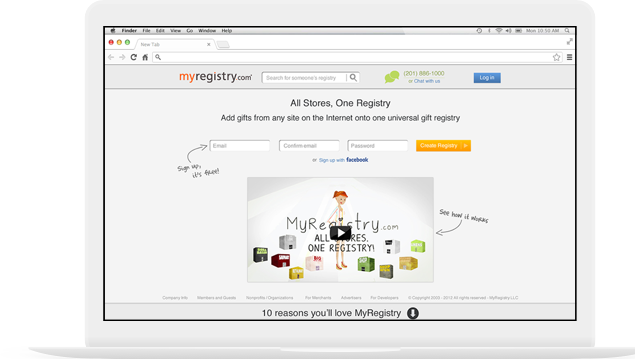
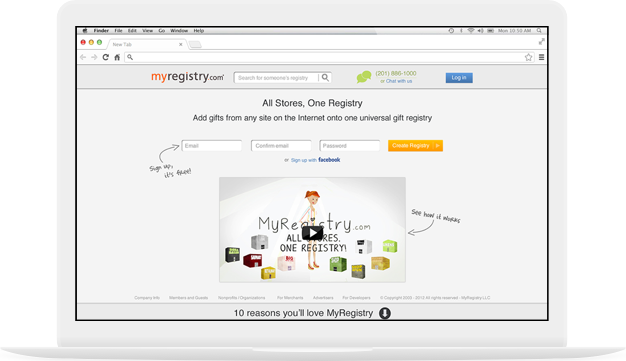
add paragraph

diff --git a/_sass/_base.scss b/_sass/_base.scss
@@ -199,6 +199,17 @@ header {
     background-color: #2d2d2d;
 }
 
+.paragraph {
+    background-color: #FFB800;
+     .screenshot {
+        left: -360px;
+        padding-top: 20px;
+    }
+    .descriptionText {
+        margin-left: 10px;
+    }
+}
+
 .glove {
     background-color: #4CE5BF;
 }
@@ -206,7 +217,11 @@ header {
 .myregistry {
     background-color: #ED7233;
     .screenshot {
-        left: -375px;
+        left: -360px;
+        padding-top: 20px;
+    }
+    .descriptionText {
+        margin-left: 10px;
     }
 }
 

diff --git a/_layouts/front.html b/_layouts/front.html
@@ -26,6 +26,16 @@
 	screenshot = site.data.resources.spartaScreenshot
 	link = site.data.resources.spartaLink
 	%}
+
+	<!-- Paragraph -->
+	{% include project.html 
+	projectClass='paragraph'
+	logo = site.data.resources.paragraphLogo
+	title = site.data.resources.paragraphTitle
+	description=site.data.resources.paragraphDescription 
+	screenshot = site.data.resources.paragraphScreenshot
+	link = site.data.resources.paragraphLink
+	%}
 	
 	<!-- Glove -->
 	{% include project.html 
